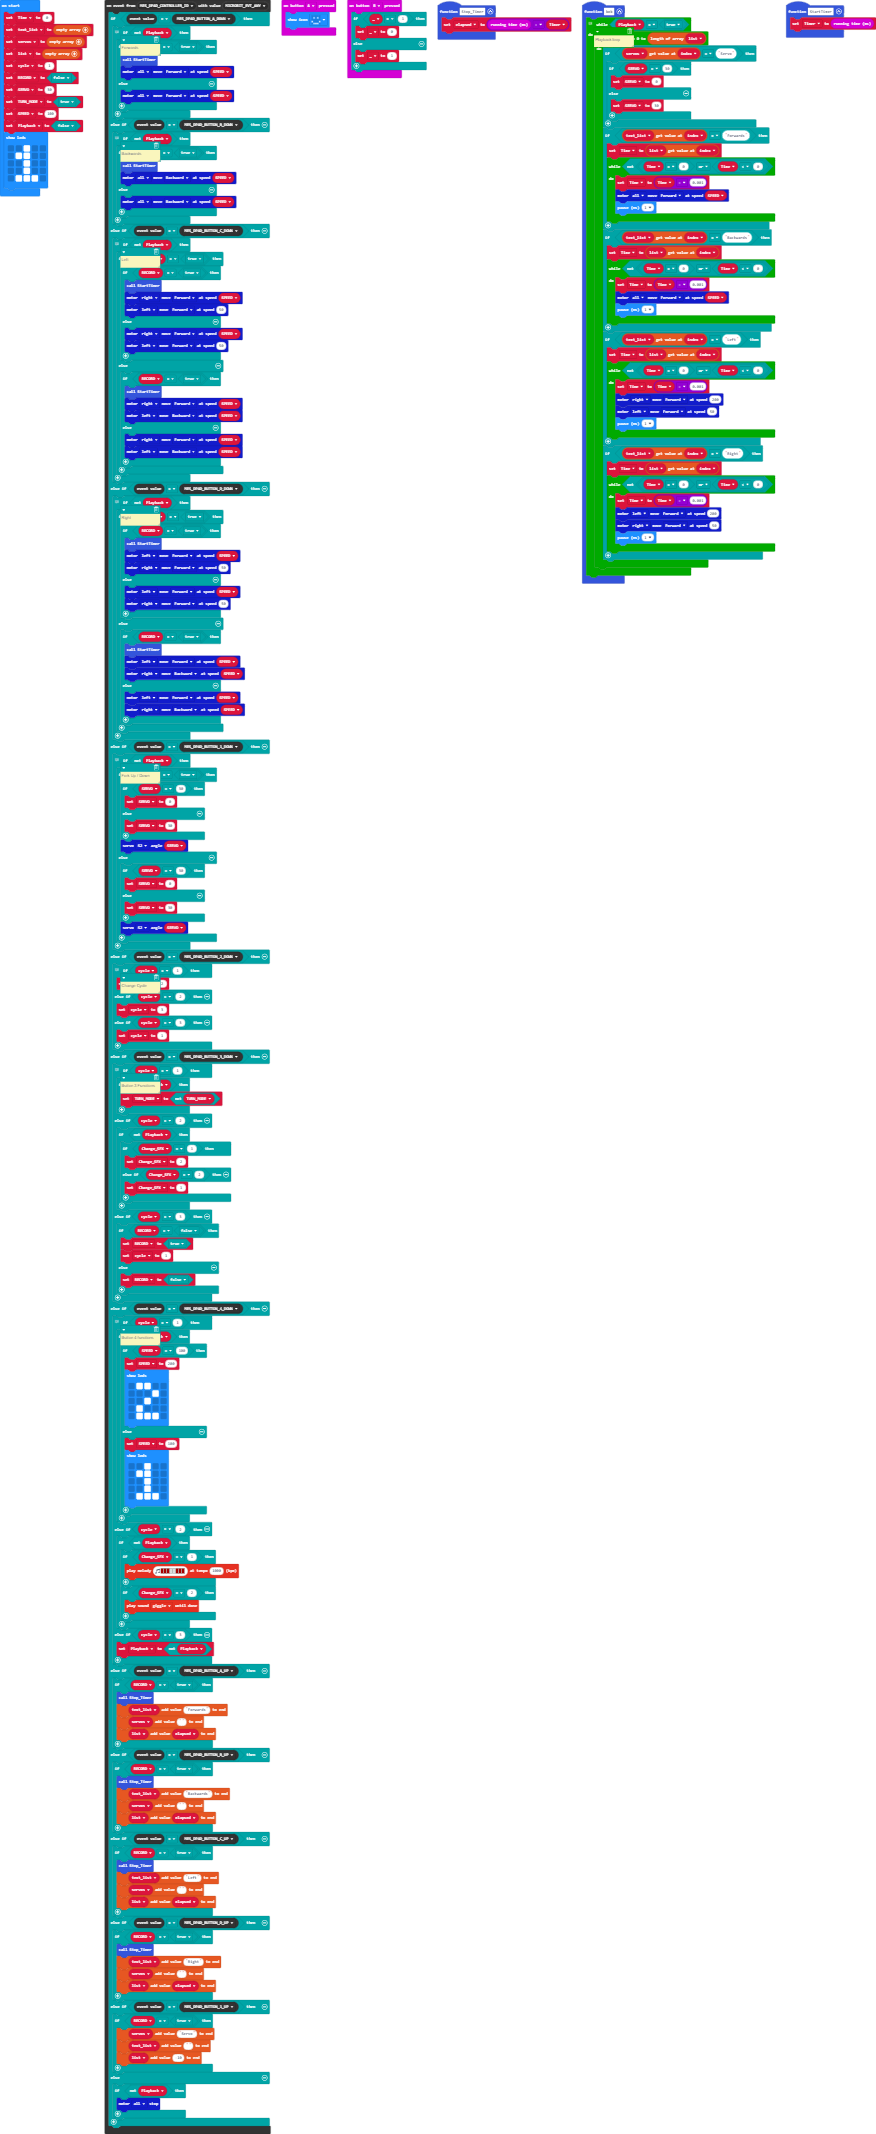
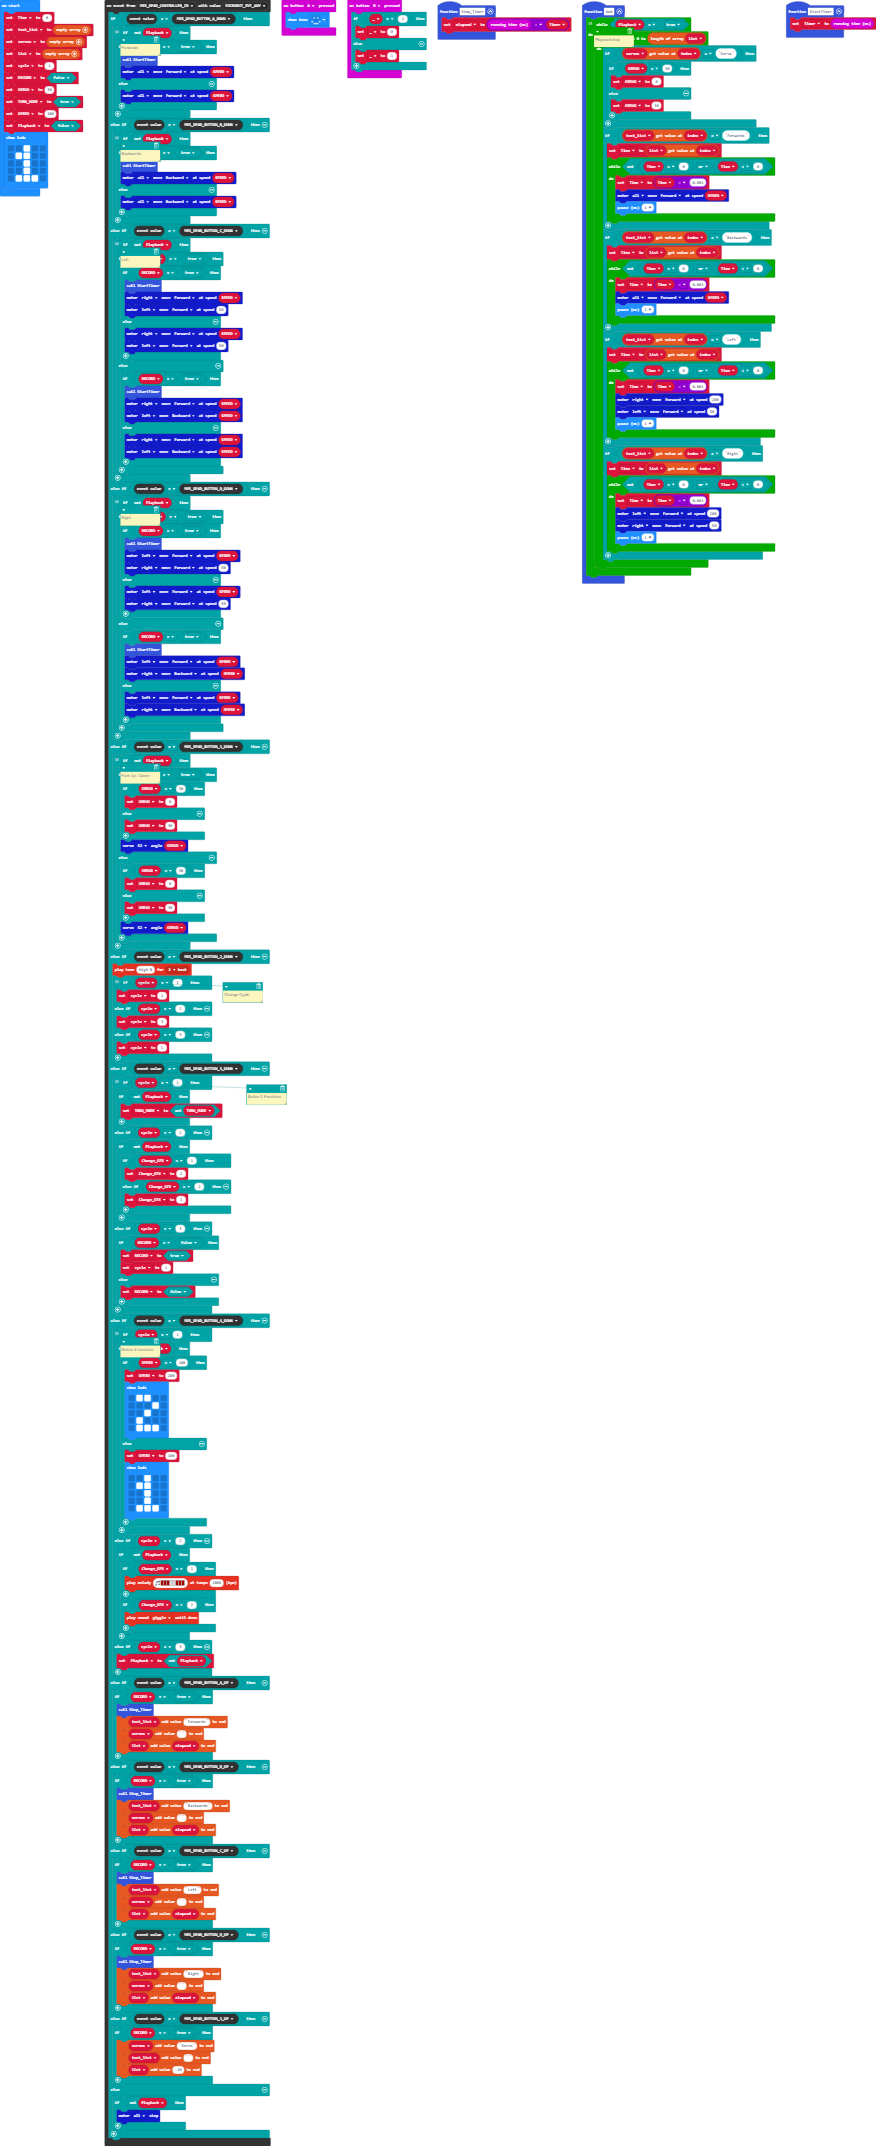
Update pxt.json, main.blocks, main.ts

Changed region(s): [[0.1233, 0.0309, 0.339, 0.9897], [0.6781, 0.0, 0.8938, 0.2784], [0.0, 0.0309, 0.0925, 0.0928]]

diff --git a/main.ts b/main.ts
@@ -146,6 +146,7 @@ control.onEvent(EventBusSource.MES_DPAD_CONTROLLER_ID, EventBusValue.MICROBIT_EV
             }
         }
     } else if (control.eventValue() == EventBusValue.MES_DPAD_BUTTON_2_DOWN) {
+        music.playTone(988, music.beat(BeatFraction.Whole))
         // Change Cycle
         if (cycle == 1) {
             cycle = 2
